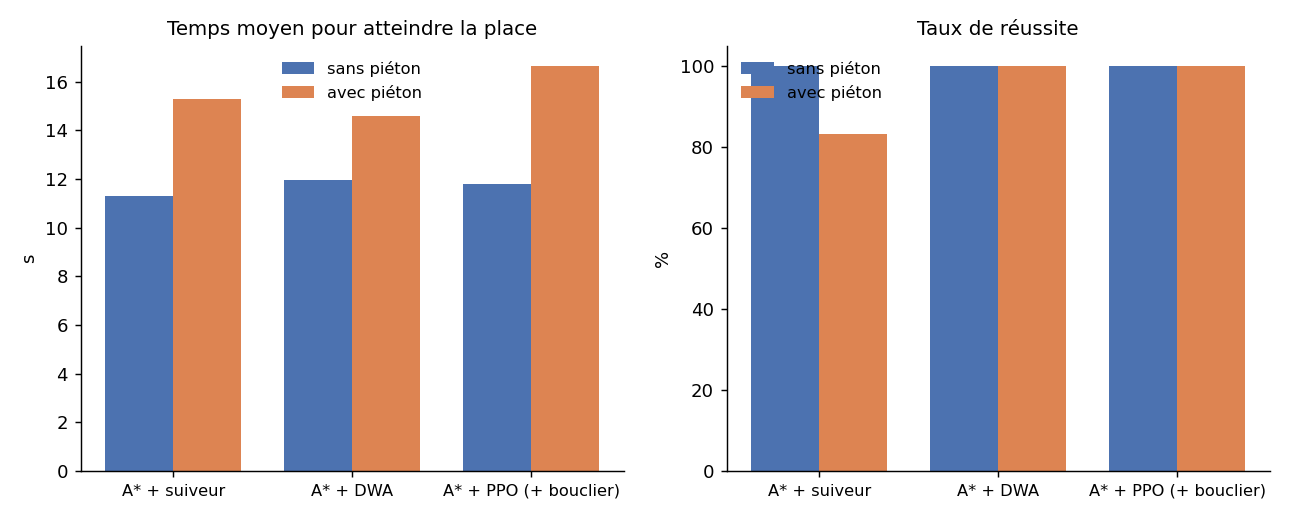
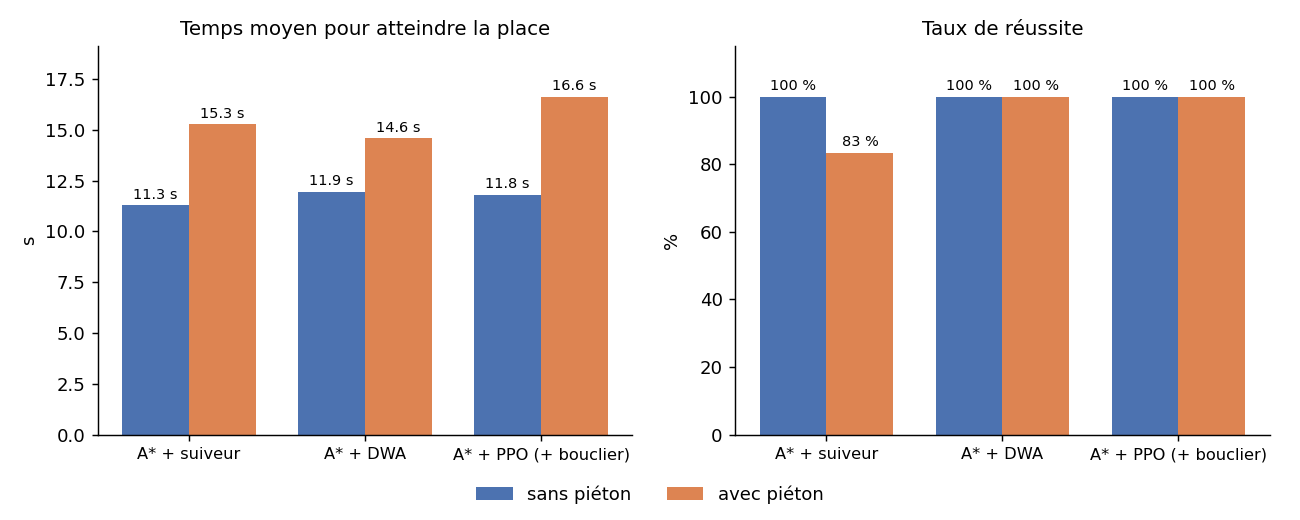
D5 : comparaison A*+DWA vs A*+PPO (tableau + graphique)

diff --git a/robot_parking/comparer.py b/robot_parking/comparer.py
@@ -72,10 +72,12 @@ def graphique(stats, chemin):
     for i, (p, nom, couleur) in enumerate([('0', 'sans piéton', '#4C72B0'),
                                            ('1', 'avec piéton', '#DD8452')]):
         decal = [v + (i - 0.5) * largeur for v in x]
-        a1.bar(decal, [stats.get((c, p), {}).get('temps', 0) for c in conducteurs],
-               largeur, label=nom, color=couleur)
-        a2.bar(decal, [stats.get((c, p), {}).get('reussite', 0) for c in conducteurs],
-               largeur, label=nom, color=couleur)
+        b1 = a1.bar(decal, [stats.get((c, p), {}).get('temps', 0) for c in conducteurs],
+                    largeur, label=nom, color=couleur)
+        b2 = a2.bar(decal, [stats.get((c, p), {}).get('reussite', 0) for c in conducteurs],
+                    largeur, label=nom, color=couleur)
+        a1.bar_label(b1, fmt='%.1f s', fontsize=8, padding=2)      # valeur au-dessus de la barre
+        a2.bar_label(b2, fmt='%.0f %%', fontsize=8, padding=2)
     for a, titre, unite in [(a1, 'Temps moyen pour atteindre la place', 's'),
                             (a2, 'Taux de réussite', '%')]:
         a.set_xticks(list(x))
@@ -83,9 +85,11 @@ def graphique(stats, chemin):
         a.set_title(titre, fontsize=11)
         a.set_ylabel(unite)
         a.spines[['top', 'right']].set_visible(False)
-        a.legend(frameon=False, fontsize=9)
-    a2.set_ylim(0, 105)
-    fig.tight_layout()
+    a2.set_ylim(0, 115)
+    a1.set_ylim(0, max(b.get_height() for b in a1.patches) * 1.15)
+    poignees, noms = a1.get_legend_handles_labels()
+    fig.legend(poignees, noms, loc='lower center', ncol=2, frameon=False, fontsize=10)
+    fig.tight_layout(rect=(0, 0.07, 1, 1))     # laisse la place à la légende en bas
     fig.savefig(chemin, dpi=130)
 
 
